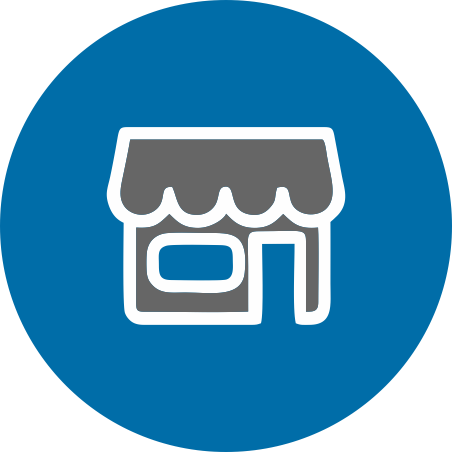
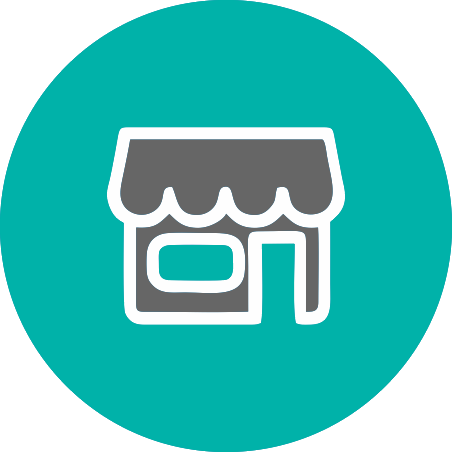
Improve app with the new brand design

diff --git a/navigation/app/components/OrdersTable.js b/navigation/app/components/OrdersTable.js
@@ -62,7 +62,14 @@ export default class OrdersTable extends React.Component {
           <View style={styles.row} key={item.invoice_id}>
             <View style={styles.container}>
               <View style={styles.cleanRow}>
-                <Text style={styles.dataText}>{item.customer_name}</Text>
+                <Text
+                  style={[
+                    styles.dataText,
+                    { fontWeight: theme.FONT_WEIGHT_MEDIUM }
+                  ]}
+                >
+                  {item.customer_name}
+                </Text>
               </View>
               <View style={styles.cleanRow}>
                 <Text style={[styles.invoiceCol1, styles.detailDataText]}>
@@ -116,7 +123,14 @@ export default class OrdersTable extends React.Component {
           <View style={styles.row} key={item.order_id}>
             <View style={styles.container}>
               <View style={styles.cleanRow}>
-                <Text style={styles.dataText}>{item.customer_name}</Text>
+                <Text
+                  style={[
+                    styles.dataText,
+                    { fontWeight: theme.FONT_WEIGHT_MEDIUM }
+                  ]}
+                >
+                  {item.customer_name}
+                </Text>
               </View>
               <View style={styles.cleanRow}>
                 <Text

diff --git a/components/Logo.js b/components/Logo.js
@@ -1,5 +1,5 @@
 import React from 'react';
-import { Text, View } from 'react-native';
+import { Image, Text, View } from 'react-native';
 import { ScaledSheet } from 'react-native-size-matters';
 import { theme } from '../helpers/styles';
 
@@ -7,12 +7,13 @@ export default class Logo extends React.Component {
   render() {
     return (
       <View style={styles.container}>
-        <Text style={[styles.title, { color: theme.PRIMARY_COLOR }]}>
-          Las Marías
-        </Text>
-        <Text style={[styles.sub, { fontWeight: theme.FONT_WEIGHT_MEDIUM }]}>
-          DISTRIBUIDORA
-        </Text>
+        <View style={styles.imgContainer}>
+          <Image
+            style={styles.img}
+            source={require('../assets/logo.png')}
+            resizeMode="center"
+          />
+        </View>
       </View>
     );
   }
@@ -30,5 +31,14 @@ const styles = ScaledSheet.create({
   },
   sub: {
     fontSize: '17@ms0.5'
+  },
+  imgContainer: {
+    paddingHorizontal: '30@ms0.5',
+    paddingTop: '15@ms0.5'
+  },
+  img: {
+    alignSelf: 'center',
+    height: 120,
+    width: 480
   }
 });

diff --git a/navigation/Navigation.js b/navigation/Navigation.js
@@ -82,6 +82,7 @@ const AuthStack = createStackNavigator(
   },
   {
     initialRouteName: 'Login',
+    headerMode: 'none',
     cardStyle: {
       backgroundColor: 'white'
     }
@@ -332,7 +333,10 @@ const AppDrawer = createDrawerNavigator(
           </TouchableOpacity>
         </SafeAreaView>
       </View>
-    )
+    ),
+    contentOptions: {
+      activeTintColor: theme.PRIMARY_COLOR
+    }
   }
 );
 

diff --git a/navigation/app/CheckoutOk.js b/navigation/app/CheckoutOk.js
@@ -13,7 +13,9 @@ export default class CheckoutOkScreen extends React.Component {
     return (
       <View style={styles.container}>
         <SelectCustomer navigation={this.props.navigation} />
-        <Logo />
+        <View style={{ marginTop: -30 }}>
+          <Logo />
+        </View>
         <View style={styles.titleContainer}>
           <Image
             style={{ width: 40, height: 40 }}

diff --git a/navigation/AuthLoading.js b/navigation/AuthLoading.js
@@ -42,7 +42,7 @@ class AuthLoadingScreen extends React.Component {
           backgroundColor: theme.PRIMARY_COLOR
         }}
       >
-        <ActivityIndicator color={theme.ACCENT_COLOR} size={25} />
+        <ActivityIndicator color="#FFFFFF" size={25} />
       </View>
     );
   }

diff --git a/helpers/styles.js b/helpers/styles.js
@@ -1,5 +1,5 @@
 export const theme = {
-  PRIMARY_COLOR: '#006DA8',
+  PRIMARY_COLOR: '#00B2A9',
   ACCENT_COLOR: '#2AB8D1',
   RED_COLOR: '#FF3333',
   FONT_WEIGHT_LIGHT: '200',
